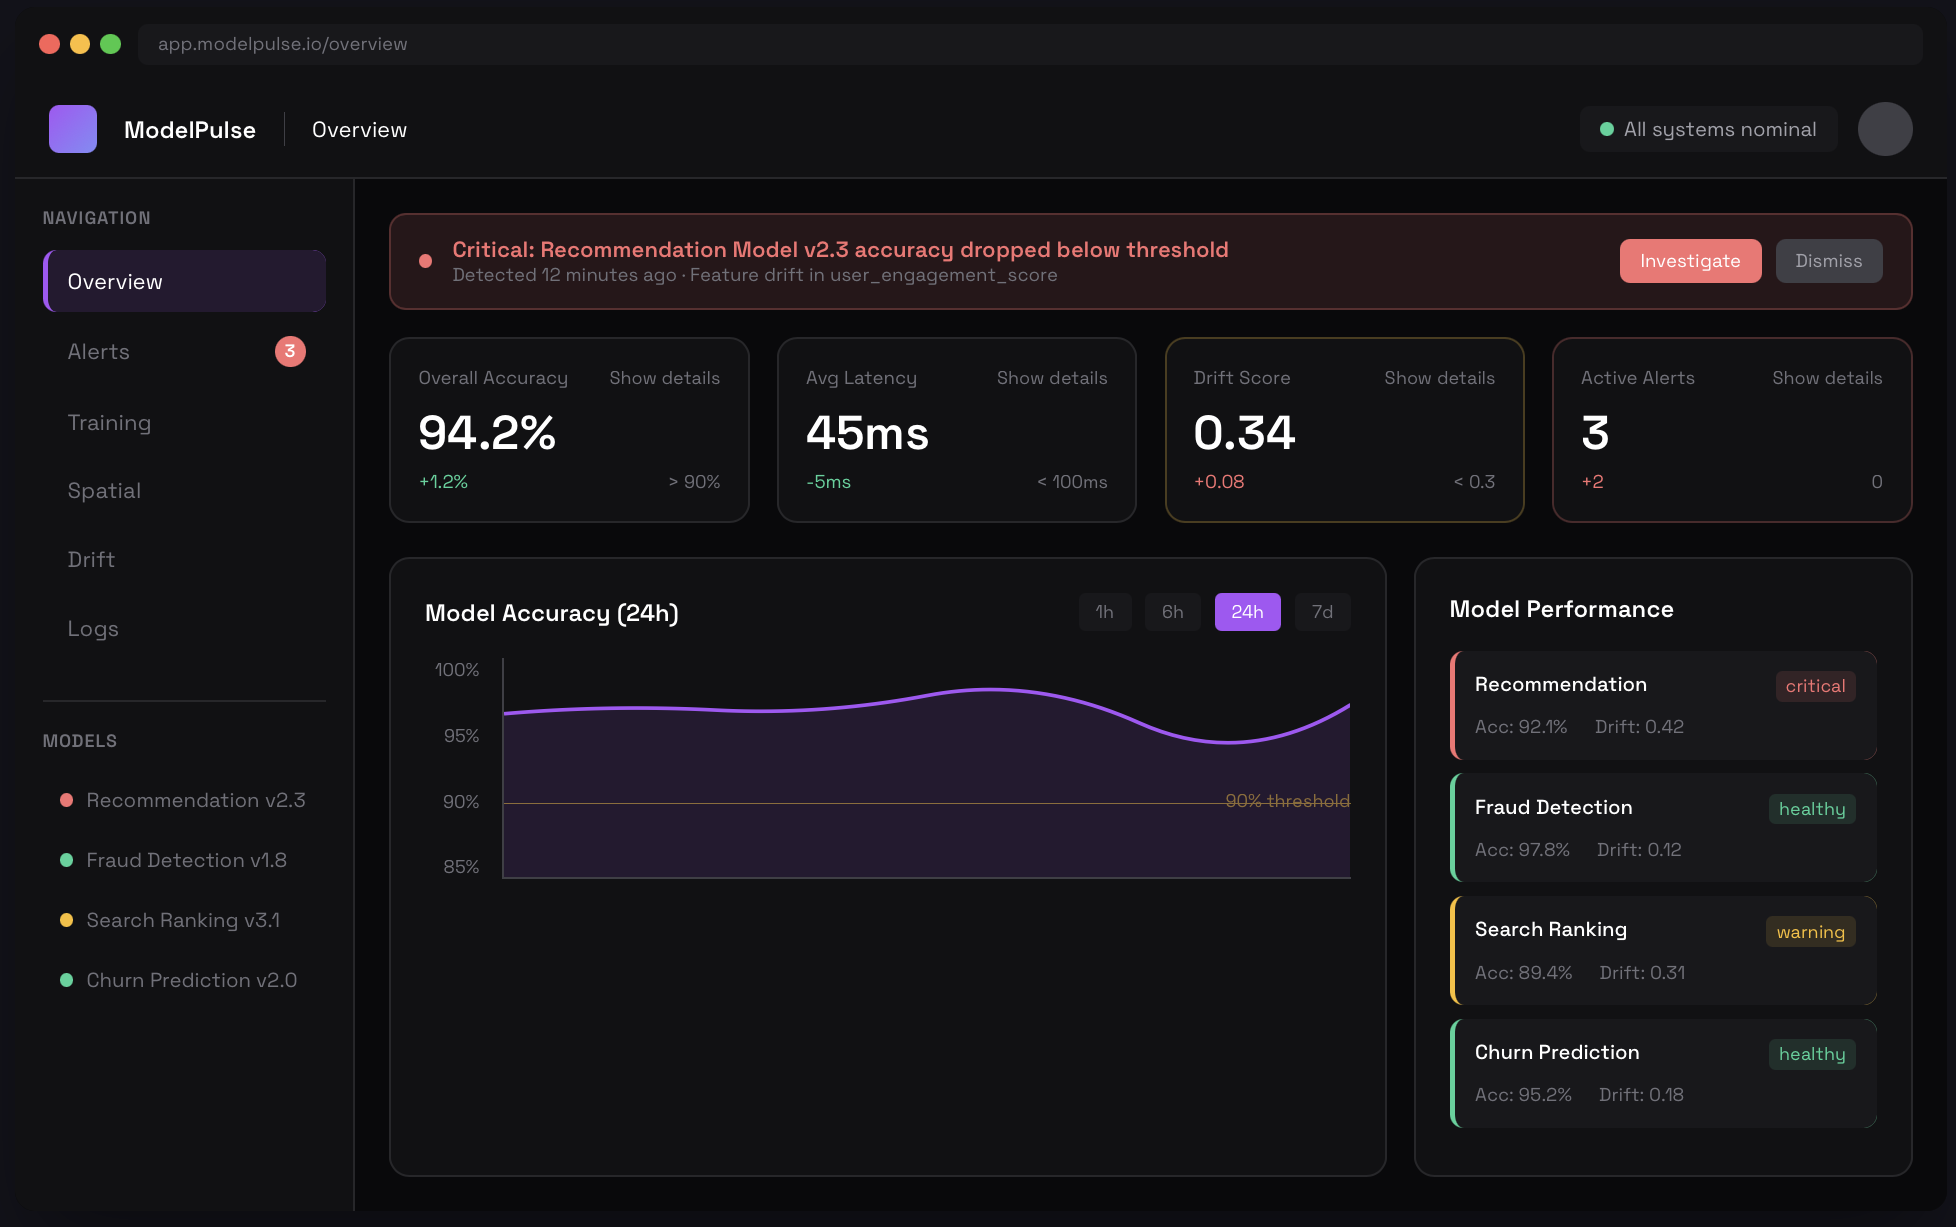
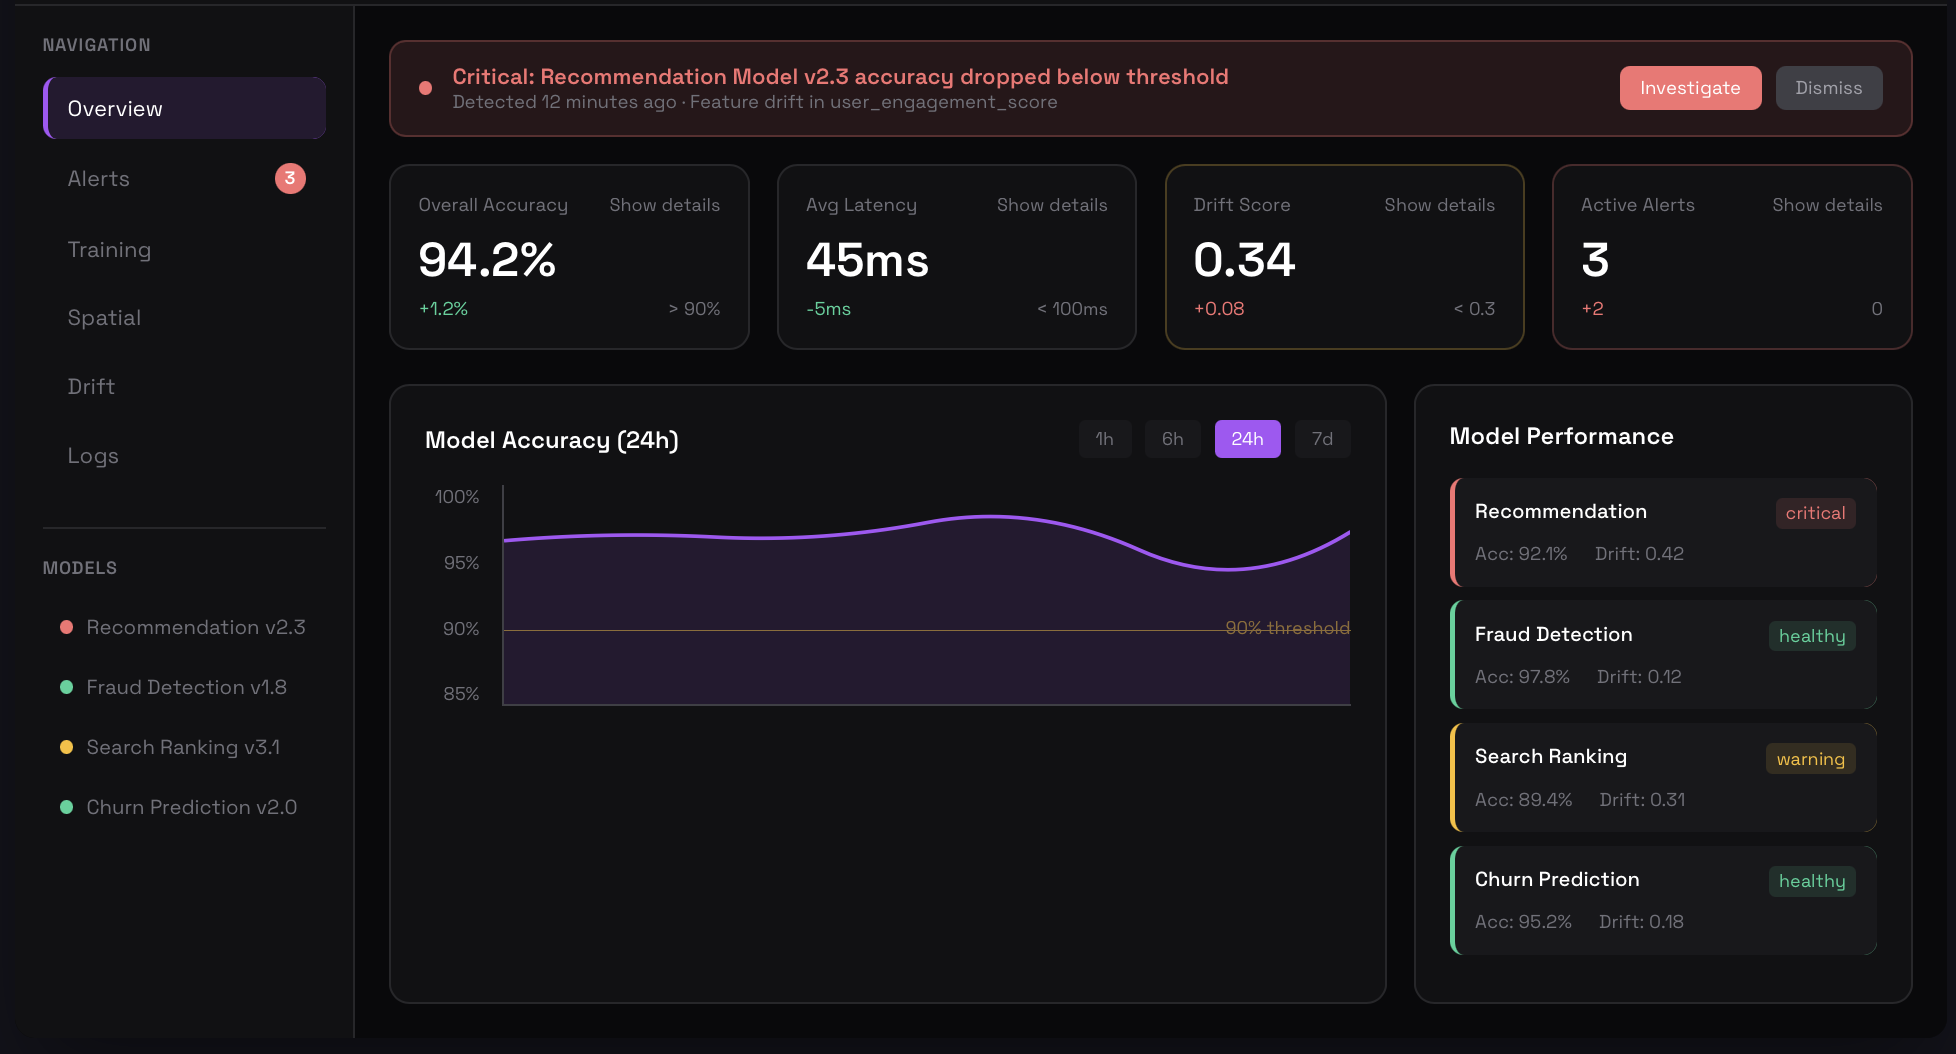
update

diff --git a/src/App.jsx b/src/App.jsx
@@ -454,8 +454,8 @@ const CustomCursor = ({ hovered, t }) => {
   }, []);
   return (
     <div ref={el} style={{ position:"fixed", top:0, left:0, zIndex:9999, pointerEvents:"none", willChange:"left,top" }}>
-      <svg width="36" height="36" viewBox="0 0 24 24" fill="none" style={{ display:"block", filter:"drop-shadow(0 0 8px #c0392b80)" }}>
-        <path d="M3 3L19.5 10.5L12.5 12.5L10.5 19.5L3 3Z" fill="#111" stroke="#8b1a10" strokeWidth="2.2" strokeLinejoin="round" strokeLinecap="round" paintOrder="stroke"/>
+      <svg width="36" height="36" viewBox="0 0 24 24" fill="none" style={{ display:"block" }}>
+        <path d="M3 3L19.5 10.5L12.5 12.5L10.5 19.5L3 3Z" fill="#111" stroke={hovered ? hovered.color : t.accent} strokeWidth="2.2" strokeLinejoin="round" strokeLinecap="round" paintOrder="stroke" style={{ transition:"stroke .25s ease" }}/>
       </svg>
       {hovered && (
         <div style={{
@@ -822,13 +822,16 @@ const HomePage = ({ t, mob, setCursorHovered, go, onAccentChange }) => {
     const onScroll = () => {
       const idx = Math.round(el.scrollLeft / el.clientWidth);
       setActiveIdx(idx);
-      if (FEATURED[idx] && onAccentChange) {
-        onAccentChange(FEATURED[idx].color || gc(FEATURED[idx].cat).color);
-      }
+      const p = FEATURED[idx];
+      if (!p) return;
+      const color = p.color || gc(p.cat).color;
+      if (onAccentChange) onAccentChange(color);
+      // keep cursor outline + bubble synced when user scrolls without moving the mouse
+      setCursorHovered(prev => prev ? { title:p.title, color, sub:p.sub, year:p.year } : prev);
     };
     el.addEventListener('scroll', onScroll, { passive: true });
     return () => el.removeEventListener('scroll', onScroll);
-  }, [onAccentChange]);
+  }, [onAccentChange, setCursorHovered]);
 
   const scrollTo = (idx) => {
     const el = scrollRef.current;
@@ -838,7 +841,7 @@ const HomePage = ({ t, mob, setCursorHovered, go, onAccentChange }) => {
   return (
     <div style={{ position:"relative", zIndex:1, height:"100vh", display:"flex", flexDirection:"column", overflow:"hidden" }}>
       {/* hero */}
-      <div style={{ padding: mob?"88px 24px 0":"100px 52px 0", position:"relative", flexShrink:0, display:"flex", flexDirection:"column", justifyContent:"center", alignItems:"center", textAlign:"center", gap: mob?14:22 }}>
+      <div style={{ padding: mob?"72px 24px 0":"80px 52px 0", position:"relative", flexShrink:0, display:"flex", flexDirection:"column", justifyContent:"center", alignItems:"center", textAlign:"center", gap: mob?10:14 }}>
         <div style={{ position:"absolute", inset:0, pointerEvents:"none", backgroundImage:`radial-gradient(circle, ${t.fg}0d 1px, transparent 1px)`, backgroundSize:"28px 28px", WebkitMaskImage:"radial-gradient(ellipse 90% 60% at 50% 0%, black 20%, transparent 100%)", maskImage:"radial-gradient(ellipse 90% 60% at 50% 0%, black 20%, transparent 100%)", animation:"particleDrift 18s ease-in-out infinite" }} />
         {/* greeting — bumped up to feel like a peer headline */}
         <div style={{ animation:"charReveal .6s cubic-bezier(.4,0,.2,1) .05s both", opacity:0, position:"relative", zIndex:1, fontSize: mob?"24px":"40px", fontWeight:500, color:t.fg, fontFamily:"-apple-system,BlinkMacSystemFont,'SF Pro Display','Helvetica Neue',Inter,sans-serif", letterSpacing:"-.02em" }}>
@@ -848,11 +851,12 @@ const HomePage = ({ t, mob, setCursorHovered, go, onAccentChange }) => {
         <h1 style={{ fontSize: mob?"clamp(28px,6.2vw,42px)":"clamp(36px,4.4vw,60px)", fontFamily:"-apple-system,BlinkMacSystemFont,'SF Pro Display','Helvetica Neue',Inter,sans-serif", fontWeight:500, letterSpacing:"-.03em", lineHeight:1.15, color:t.fg, position:"relative", zIndex:1, maxWidth:1100, animation:"charReveal .6s cubic-bezier(.4,0,.2,1) .3s both", opacity:0 }}>
           {(() => {
             const current = FEATURED[activeIdx] || FEATURED[0];
+            const currentColor = current.color || gc(current.cat).color;
             const h = current.headline || { before:"I explore ", keyword:"legibility and trust", after:" in AI interfaces." };
             return (
               <span key={activeIdx} style={{ display:"inline-block", animation:"fadeUp .45s cubic-bezier(.4,0,.2,1) both" }}>
                 <span>{h.before}</span>
-                <span style={{ color:t.accent }}>{h.keyword}</span>
+                <span style={{ color:currentColor, transition:"color .5s cubic-bezier(.4,0,.2,1)" }}>{h.keyword}</span>
                 <span>{h.after}</span>
               </span>
             );
@@ -864,14 +868,16 @@ const HomePage = ({ t, mob, setCursorHovered, go, onAccentChange }) => {
         {FEATURED.map((p, i) => {
           const color = p.color || gc(p.cat).color;
           const [hovered, setHovered] = useState(false);
+          const isTallFrame = p.frame === "triplePhone" || p.frame === "laptop";
+          const maxW = mob
+            ? (isTallFrame ? "min(380px, 50vh)" : "min(440px, 60vh)")
+            : (isTallFrame ? "min(680px, 55vh)" : "min(780px, 68vh)");
           return (
             <div key={p.id} style={{ flexShrink:0, width:"100vw", scrollSnapAlign:"start", display:"flex", flexDirection:"column", alignItems:"center", justifyContent:"flex-start", padding: mob?"6px 20px 0":"8px 52px 0", position:"relative", minHeight:0, overflowY:"hidden", justifyContent:"center" }}>
               <a href={p.link} target="_blank" rel="noopener noreferrer"
                 onMouseEnter={() => { setHovered(true); setCursorHovered({ title:p.title, color, sub:p.sub, year:p.year }); }}
                 onMouseLeave={() => { setHovered(false); setCursorHovered(null); }}
-                style={{ display:"block", textDecoration:"none", width:"100%", maxWidth: mob?380:680,
-                  transform: hovered ? "translateY(-4px)" : "translateY(0)",
-                  transition:"transform .55s cubic-bezier(.4,0,.2,1)", cursor:"none" }}
+                style={{ display:"block", textDecoration:"none", width:"100%", maxWidth: maxW, cursor:"none" }}
               >
                 <DeviceFrame frame={p.frame} img={p.img} hovered={hovered} t={t} accent={color} screenId={p.id} url={p.link} aspectRatio={p.aspectRatio} />
                 <div style={{ display:"flex", alignItems:"baseline", justifyContent:"space-between", padding:"10px 2px 0", opacity:1, transform:"translateY(0)" }}>
@@ -1488,6 +1494,25 @@ const AboutTopBar = ({ activeCh, navHidden, t }) => {
   );
 };
 
+/* ──────────────────────────────────────────────────
+   PHOTO CELL — image with on-error fallback icon
+────────────────────────────────────────────────── */
+const PhotoCell = ({ src, bg, t }) => {
+  const [failed, setFailed] = useState(false);
+  return (
+    <div className="tanha-photo" style={{ background:bg, aspectRatio:"3/4", overflow:"hidden", position:"relative", display:"flex", alignItems:"center", justifyContent:"center" }}>
+      {!failed ? (
+        <img src={src} alt="" onError={() => setFailed(true)}
+          style={{ width:"100%", height:"100%", objectFit:"cover", objectPosition:"center", display:"block", filter:"grayscale(100%)" }} />
+      ) : (
+        <svg style={{ opacity:.2, pointerEvents:"none" }} width="28" height="28" viewBox="0 0 24 24" fill="none" stroke={t.fg} strokeWidth="1.5">
+          <rect x="3" y="3" width="18" height="18" rx="2"/><circle cx="8.5" cy="8.5" r="1.5"/><polyline points="21 15 16 10 5 21"/>
+        </svg>
+      )}
+    </div>
+  );
+};
+
 const AboutGridCell = ({ cell, ch, cardRef, t, mob }) => {
   if (cell.t === "fill") {
     return <div className="tanha-fill" />;
@@ -1517,15 +1542,7 @@ const AboutGridCell = ({ cell, ch, cardRef, t, mob }) => {
   }
   const pad = String(cell.n).padStart(2, "0");
   const ext = cell.ext || "jpg";
-  return (
-    <div className="tanha-photo" style={{ background:cell.s, aspectRatio:"3/4", overflow:"hidden", position:"relative", display:"flex", alignItems:"center", justifyContent:"center" }}>
-      <img src={`/images/pic${pad}.${ext}`} alt="" style={{ width:"100%", height:"100%", objectFit:"cover", objectPosition:"center", display:"block", filter:"grayscale(100%)" }}
-        onError={e => { e.target.style.display="none"; }} />
-      <svg style={{ position:"absolute", opacity:.08, pointerEvents:"none" }} width="28" height="28" viewBox="0 0 24 24" fill="none" stroke={t.fg} strokeWidth="1.5">
-        <rect x="3" y="3" width="18" height="18" rx="2"/><circle cx="8.5" cy="8.5" r="1.5"/><polyline points="21 15 16 10 5 21"/>
-      </svg>
-    </div>
-  );
+  return <PhotoCell src={`/images/pic${pad}.${ext}`} bg={cell.s} t={t} />;
 };
 
 const AboutPage = ({ t, mob, navHidden }) => {
@@ -1553,13 +1570,7 @@ const AboutPage = ({ t, mob, navHidden }) => {
       <div className="tanha-grid">
 
         {/* photo01 — left of def card */}
-        <div className="tanha-photo" style={{ background:"#1c1c1a", aspectRatio:"3/4", overflow:"hidden", position:"relative", display:"flex", alignItems:"center", justifyContent:"center" }}>
-          <img src="/images/pic01.jpg" alt="" style={{ width:"100%", height:"100%", objectFit:"cover", objectPosition:"center", display:"block", filter:"grayscale(100%)" }}
-            onError={e => { e.target.style.display="none"; }} />
-          <svg style={{ position:"absolute", opacity:.08, pointerEvents:"none" }} width="28" height="28" viewBox="0 0 24 24" fill="none" stroke={t.fg} strokeWidth="1.5">
-            <rect x="3" y="3" width="18" height="18" rx="2"/><circle cx="8.5" cy="8.5" r="1.5"/><polyline points="21 15 16 10 5 21"/>
-          </svg>
-        </div>
+        <PhotoCell src="/images/pic01.jpg" bg="#1c1c1a" t={t} />
 
         {/* definition card */}
         <div className="tanha-card" style={{ background:t.frameBg, display:"flex", flexDirection:"column", padding:"clamp(12px,2vw,22px)", overflow:"hidden", border:`1px solid ${t.rule}` }}>
@@ -1585,13 +1596,7 @@ const AboutPage = ({ t, mob, navHidden }) => {
         </div>
 
         {/* photo02 — right of def card */}
-        <div className="tanha-photo" style={{ background:"#1e1e1c", aspectRatio:"3/4", overflow:"hidden", position:"relative", display:"flex", alignItems:"center", justifyContent:"center" }}>
-          <img src="/images/pic02.jpg" alt="" style={{ width:"100%", height:"100%", objectFit:"cover", objectPosition:"center", display:"block", filter:"grayscale(100%)" }}
-            onError={e => { e.target.style.display="none"; }} />
-          <svg style={{ position:"absolute", opacity:.08, pointerEvents:"none" }} width="28" height="28" viewBox="0 0 24 24" fill="none" stroke={t.fg} strokeWidth="1.5">
-            <rect x="3" y="3" width="18" height="18" rx="2"/><circle cx="8.5" cy="8.5" r="1.5"/><polyline points="21 15 16 10 5 21"/>
-          </svg>
-        </div>
+        <PhotoCell src="/images/pic02.jpg" bg="#1e1e1c" t={t} />
 
         {/* chapters 1–3 */}
         {CHAPTERS2.slice(0, 3).map(ch => (
